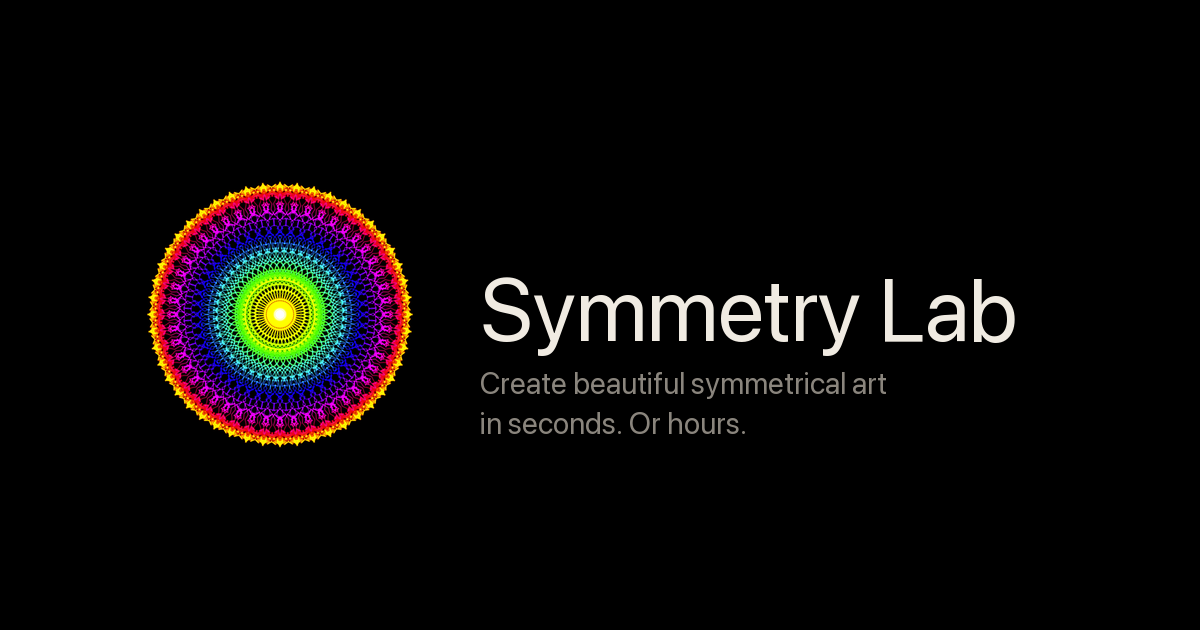
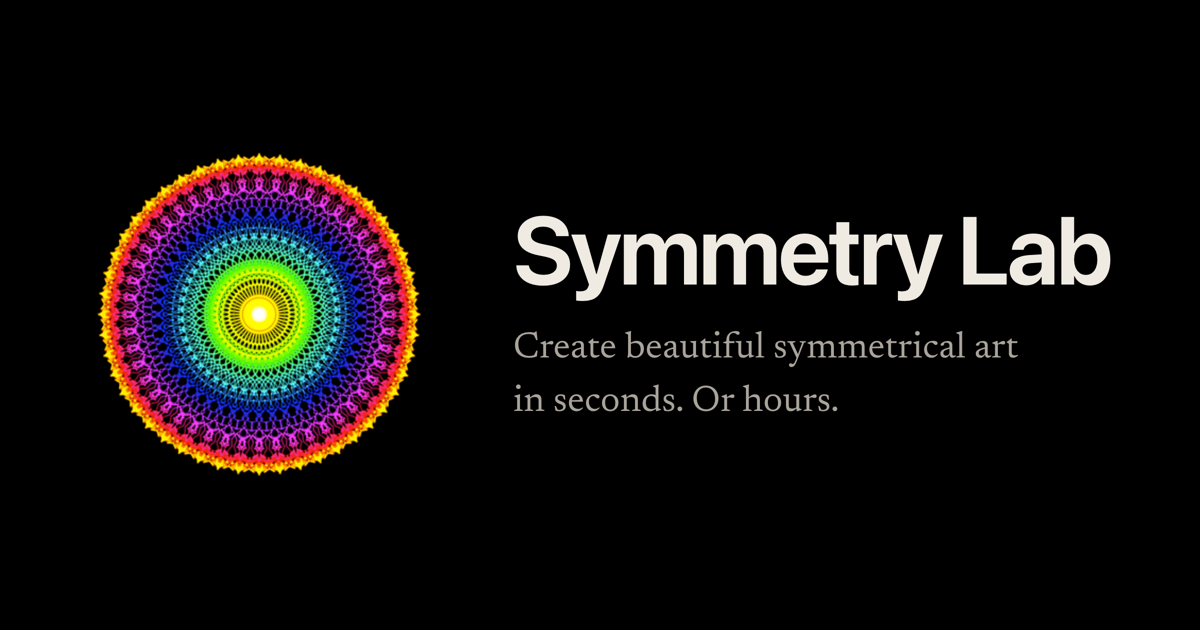
og-image.png

Changed region(s): [[0.4008, 0.3317, 0.925, 0.6937], [0.0617, 0.2413, 0.37, 0.754]]

diff --git a/index.html b/index.html
@@ -8,13 +8,13 @@
 
   <meta property="og:title" content="Symmetry Lab">
   <meta property="og:description" content="Create beautiful symmetrical art in seconds. Or hours.">
-  <meta property="og:image" content="https://symmetrylab.app/assets/images/og-image.png">
+  <meta property="og:image" content="https://symmetrylab.app/assets/images/og-image.png?v=2">
   <meta property="og:url" content="https://symmetrylab.app">
   <meta property="og:type" content="website">
   <meta name="twitter:card" content="summary_large_image">
   <meta name="twitter:title" content="Symmetry Lab">
   <meta name="twitter:description" content="Create beautiful symmetrical art in seconds. Or hours.">
-  <meta name="twitter:image" content="https://symmetrylab.app/assets/images/og-image.png">
+  <meta name="twitter:image" content="https://symmetrylab.app/assets/images/og-image.png?v=2">
   <meta name="theme-color" content="#000000">
 
   <link rel="canonical" href="https://symmetrylab.app">

diff --git a/press/index.html b/press/index.html
@@ -14,11 +14,11 @@
     <meta property="og:url" content="https://symmetrylab.app/press/">
     <meta property="og:title" content="Symmetry Lab — Press Kit">
     <meta property="og:description" content="An iOS app that turns simple strokes into intricate symmetrical art. Pitch, screenshots, demo video, icon, and contact — all in one place.">
-    <meta property="og:image" content="https://symmetrylab.app/assets/images/og-image.png">
+    <meta property="og:image" content="https://symmetrylab.app/assets/images/og-image.png?v=2">
     <meta name="twitter:card" content="summary_large_image">
     <meta name="twitter:title" content="Symmetry Lab — Press Kit">
     <meta name="twitter:description" content="Everything you need to write about Symmetry Lab.">
-    <meta name="twitter:image" content="https://symmetrylab.app/assets/images/og-image.png">
+    <meta name="twitter:image" content="https://symmetrylab.app/assets/images/og-image.png?v=2">
     <meta name="theme-color" content="#000000">
 
     <style>